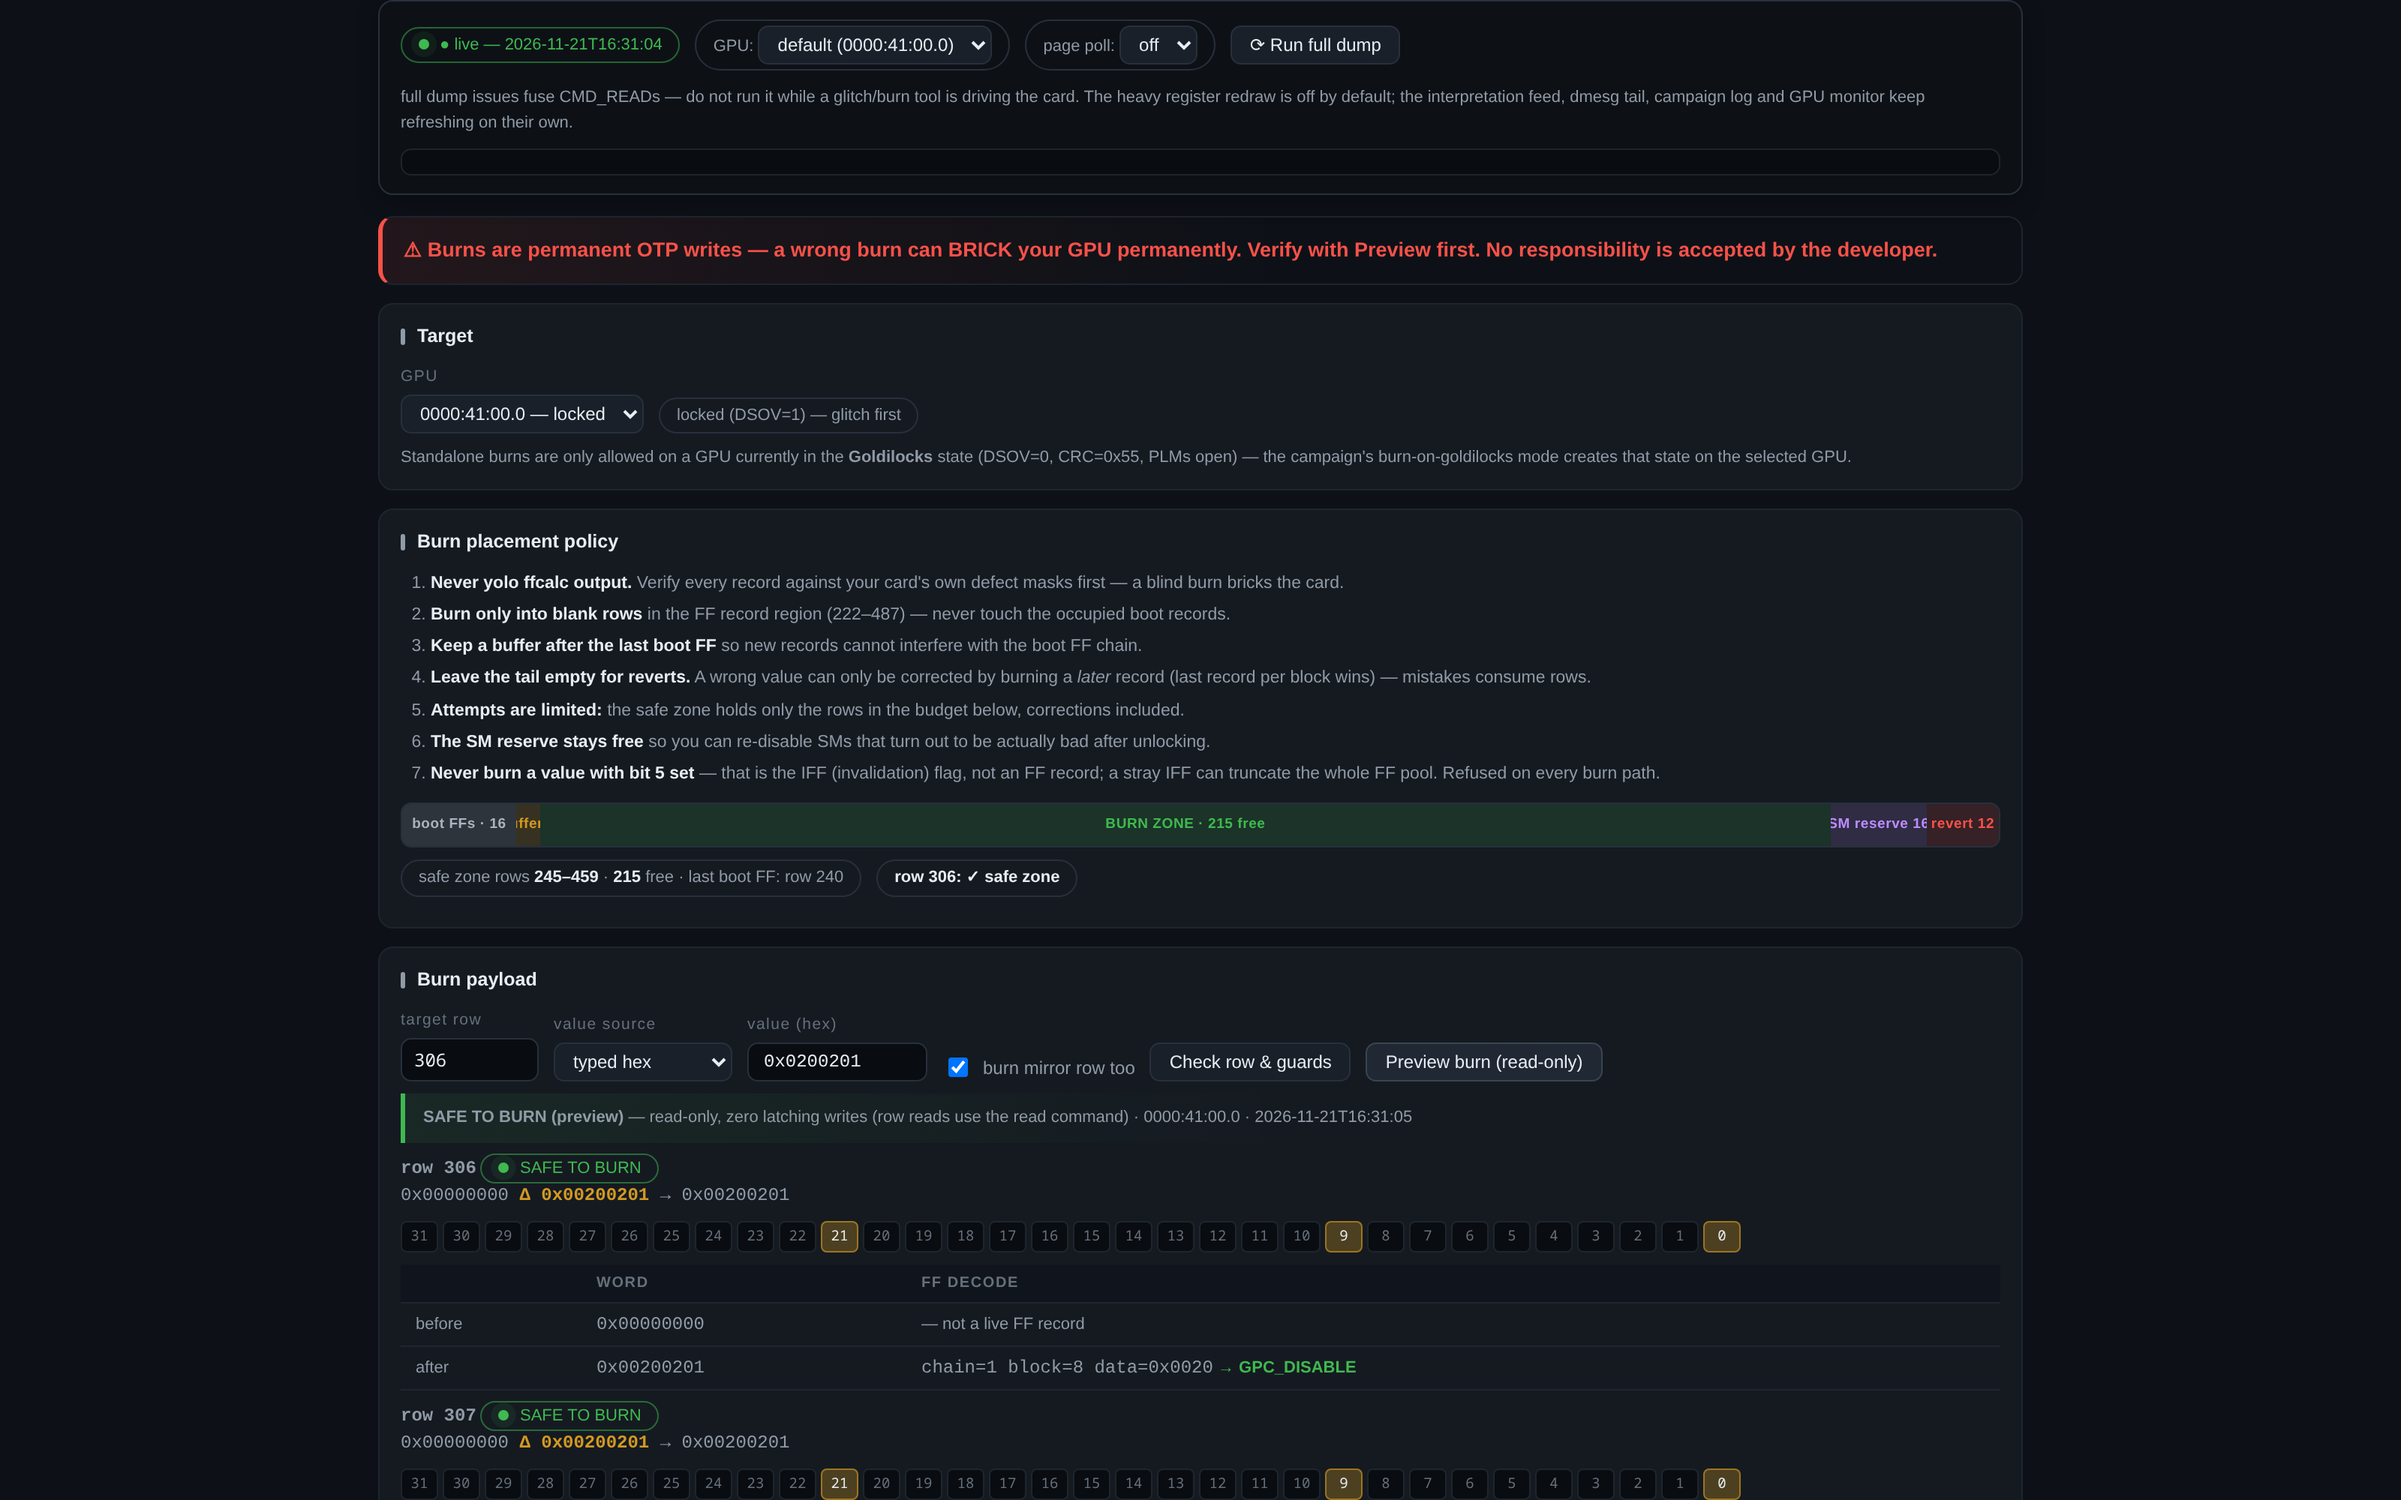
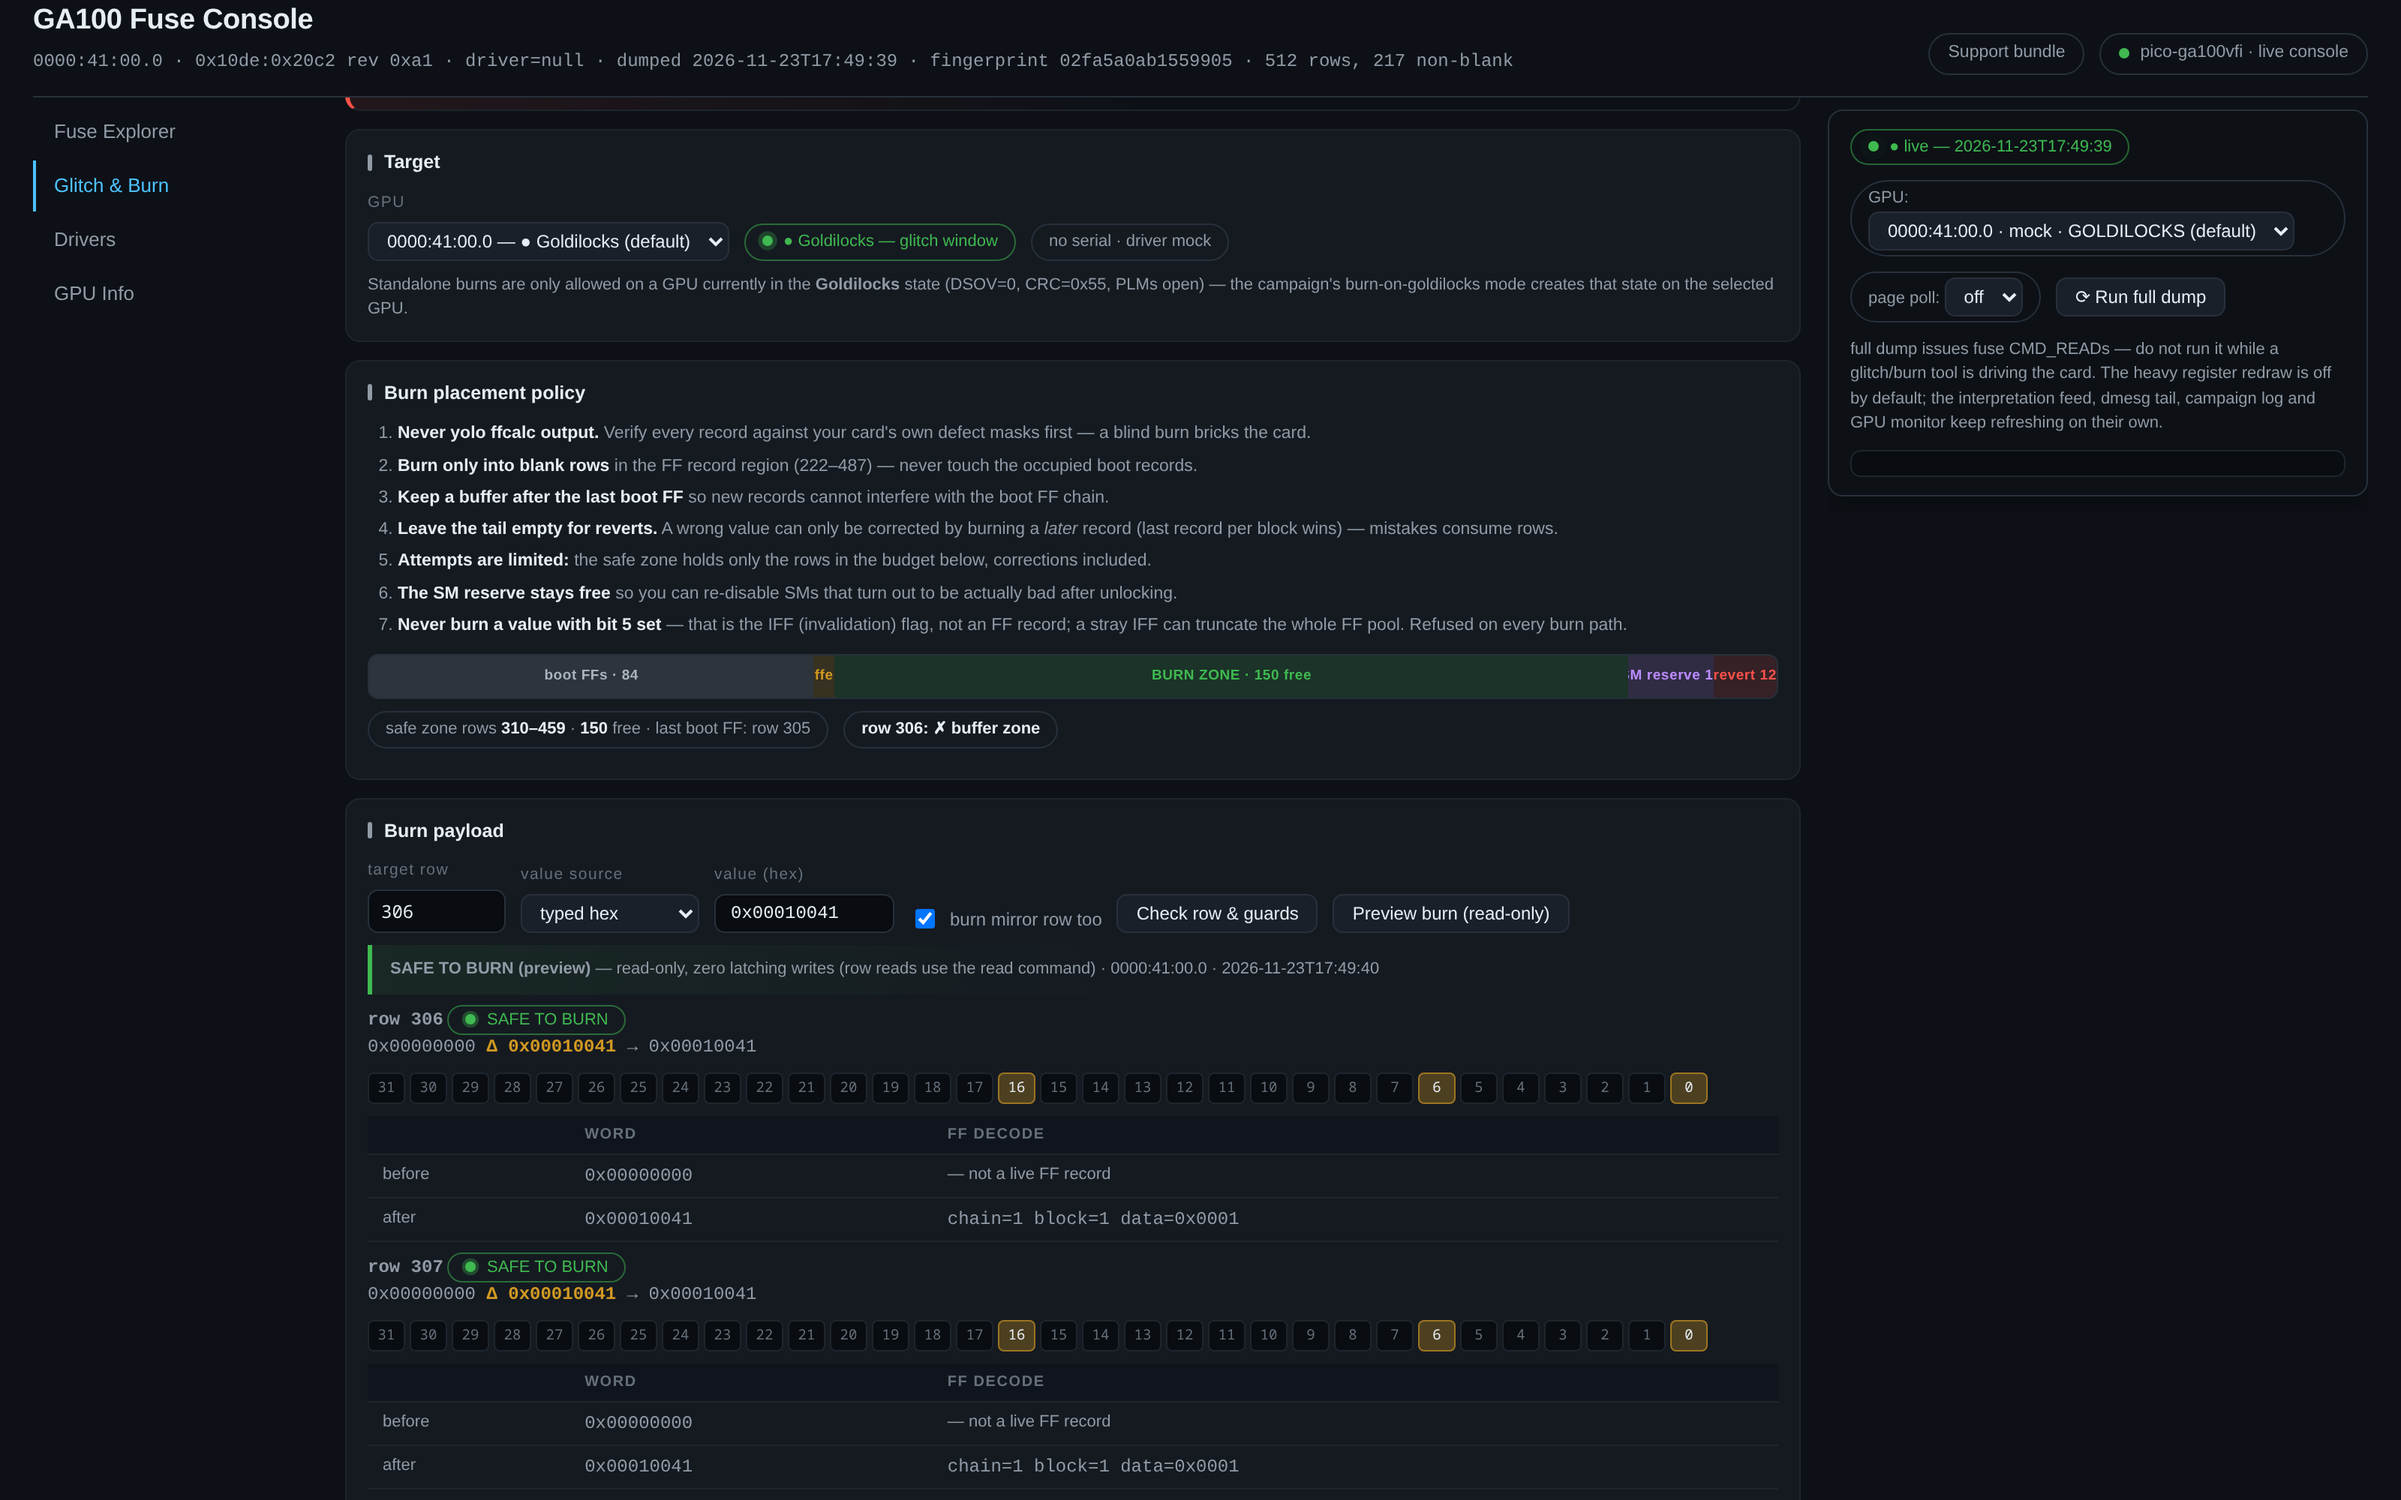
docs: refresh check/preview/armed panel screenshots from mock console
Preview and armed states re-rendered from the current UI via the mock
console (Playwright, 1600x1000 dsf=2, scrolled framing matching the old
shots; mock dump = real 512-row dump with DSOV forced to 0 for the
Goldilocks arm gate). Check cannot render in mock: /api/burn/check
refuses without a live card, so console-check-panel.png stays as the
previous-build capture with an honest caption note.

diff --git a/docs/USER-GUIDE.md b/docs/USER-GUIDE.md
@@ -120,10 +120,10 @@ loader `0x120060=0`, `FUSECTRL_PLM`/`PRIV_MASK` open, `DEBUGCTRL=0`,
 they read closed outside a burn by design and are opened by the arm
 sequence inside the burn itself — they never block the check or burn.
 
-![Check result — green window bits, amber arm-pending rows](images/console-check-panel.png)
+![Check result — green window bits, amber arm-pending rows (captured on a previous build)](images/console-check-panel.png)
 
-*Captured from the current console UI in mock mode on the latest code, including the brick-risk warning banner (representative fuse data);
-card serial, host name, IP addresses, username and home paths are masked.*
+*Captured on a previous build (horizontal-tab chrome). Check needs a live card — the mock console refuses it with an error line, so this
+result panel cannot be re-rendered from mock; the shot is kept as-is rather than replaced with a mock error strip.*
 
 **Burn Preview panel** (`Preview burn (read-only)`): a dry-run of the
 exact payload that **cannot write** — the server runs it through a card
